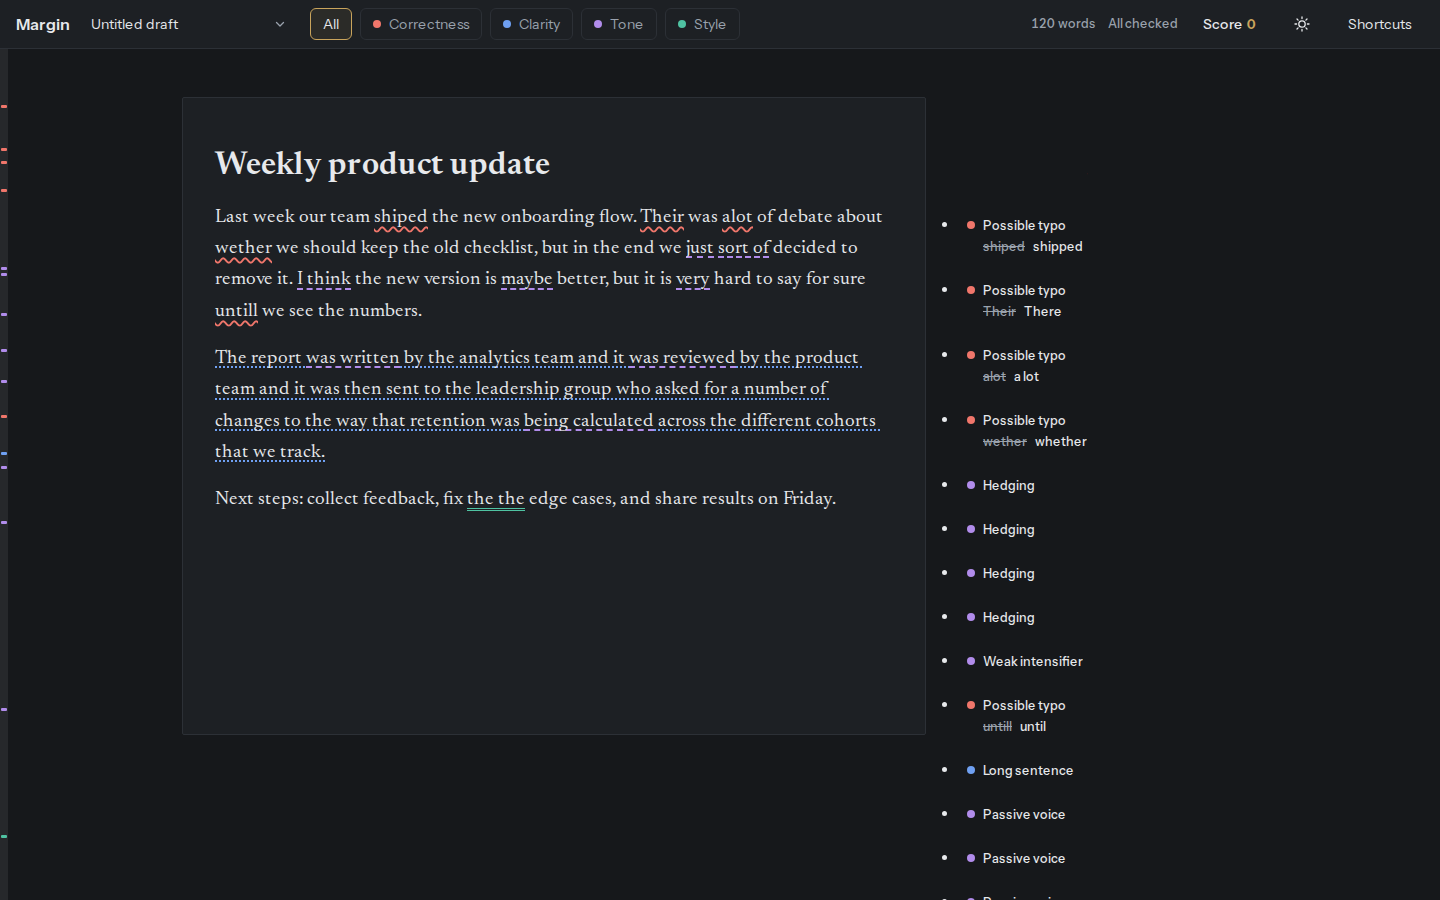
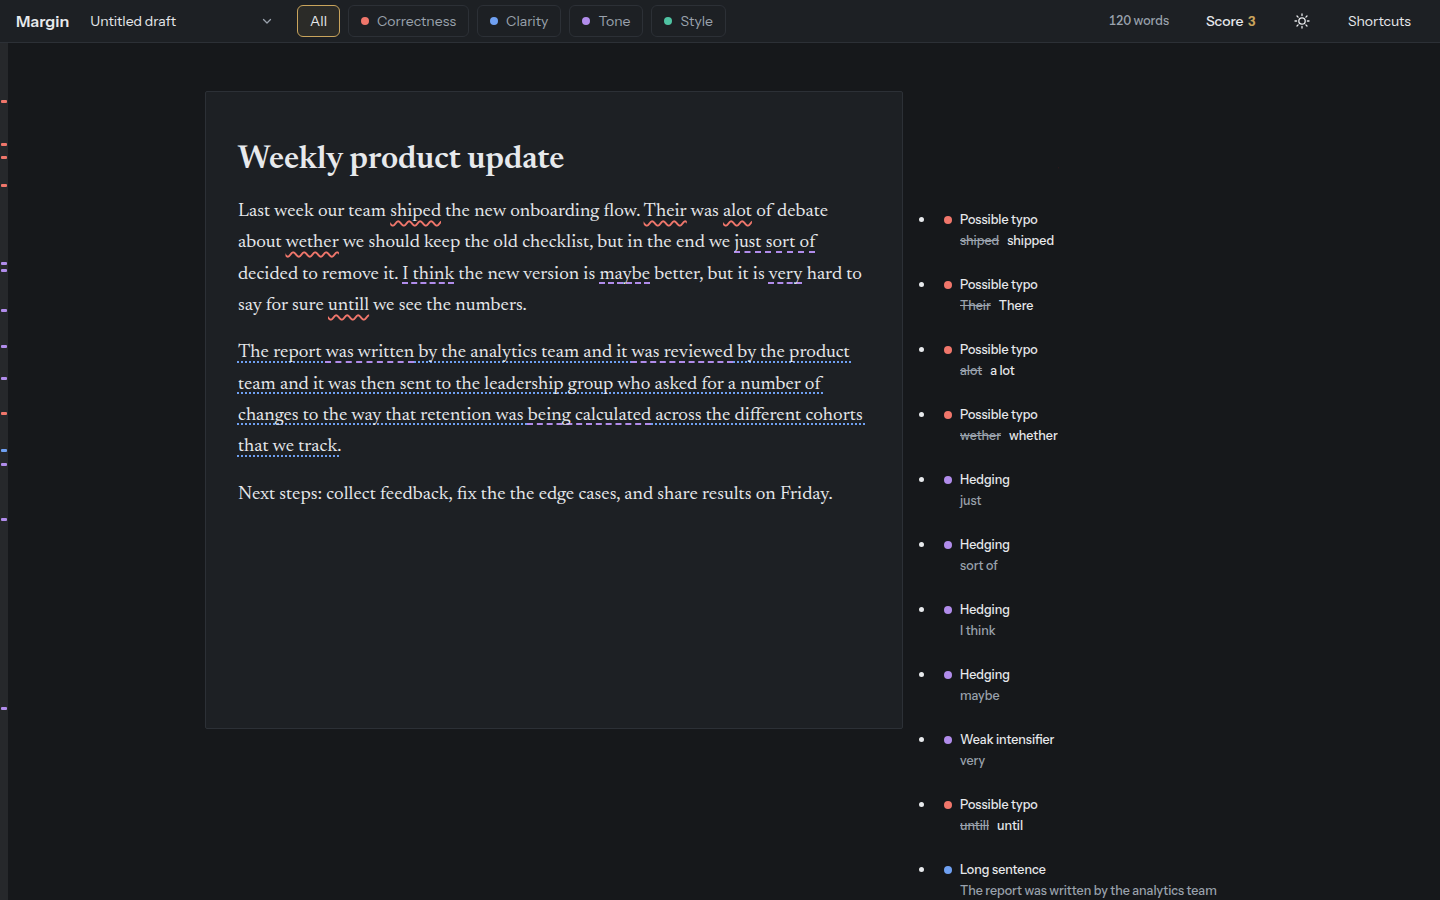
rail: show flagged text on advisory notes
Notes for advisory rules (hedging, weak intensifier, passive voice, long
sentence) carry no replacement, so the full rail previously showed only a
category dot and a one-word label, which read as sparse. They now show the
flagged text under the title, clamped to two lines so a long sentence stays a
compact note. Notes with a replacement keep the struck-through original and
replacement preview. This matches DESIGN section 8.3, where every note carries
the original text it refers to.

Refresh the committed screenshots to reflect the fuller notes.

diff --git a/src/components/rail/RailNote.tsx b/src/components/rail/RailNote.tsx
@@ -96,6 +96,12 @@ export function RailNote({
             <span className={styles.previewRepl}>{primary}</span>
           </span>
         ) : null}
+        {!active && !primary && suggestion.original ? (
+          // Advisory notes (hedging, passive voice, long sentence) carry no
+          // replacement, so instead of a bare label we show the flagged text so
+          // the writer sees what the note refers to. Long spans are clamped.
+          <span className={styles.flag}>{suggestion.original}</span>
+        ) : null}
       </button>
 
       {active ? (

diff --git a/src/components/rail/MarginRail.module.css b/src/components/rail/MarginRail.module.css
@@ -84,6 +84,19 @@
   color: var(--ink);
 }
 
+/* Flagged text for advisory notes that have no replacement. Aligned under the
+   title and clamped to two lines so a long sentence stays a compact note. */
+.flag {
+  font: var(--t-ui-sm);
+  color: var(--ink-muted);
+  padding-left: calc(8px + var(--s-2));
+  display: -webkit-box;
+  -webkit-box-orient: vertical;
+  -webkit-line-clamp: 2;
+  line-clamp: 2;
+  overflow: hidden;
+}
+
 /* Expanded (active) note: replacements and inline actions. */
 .expanded {
   display: flex;
